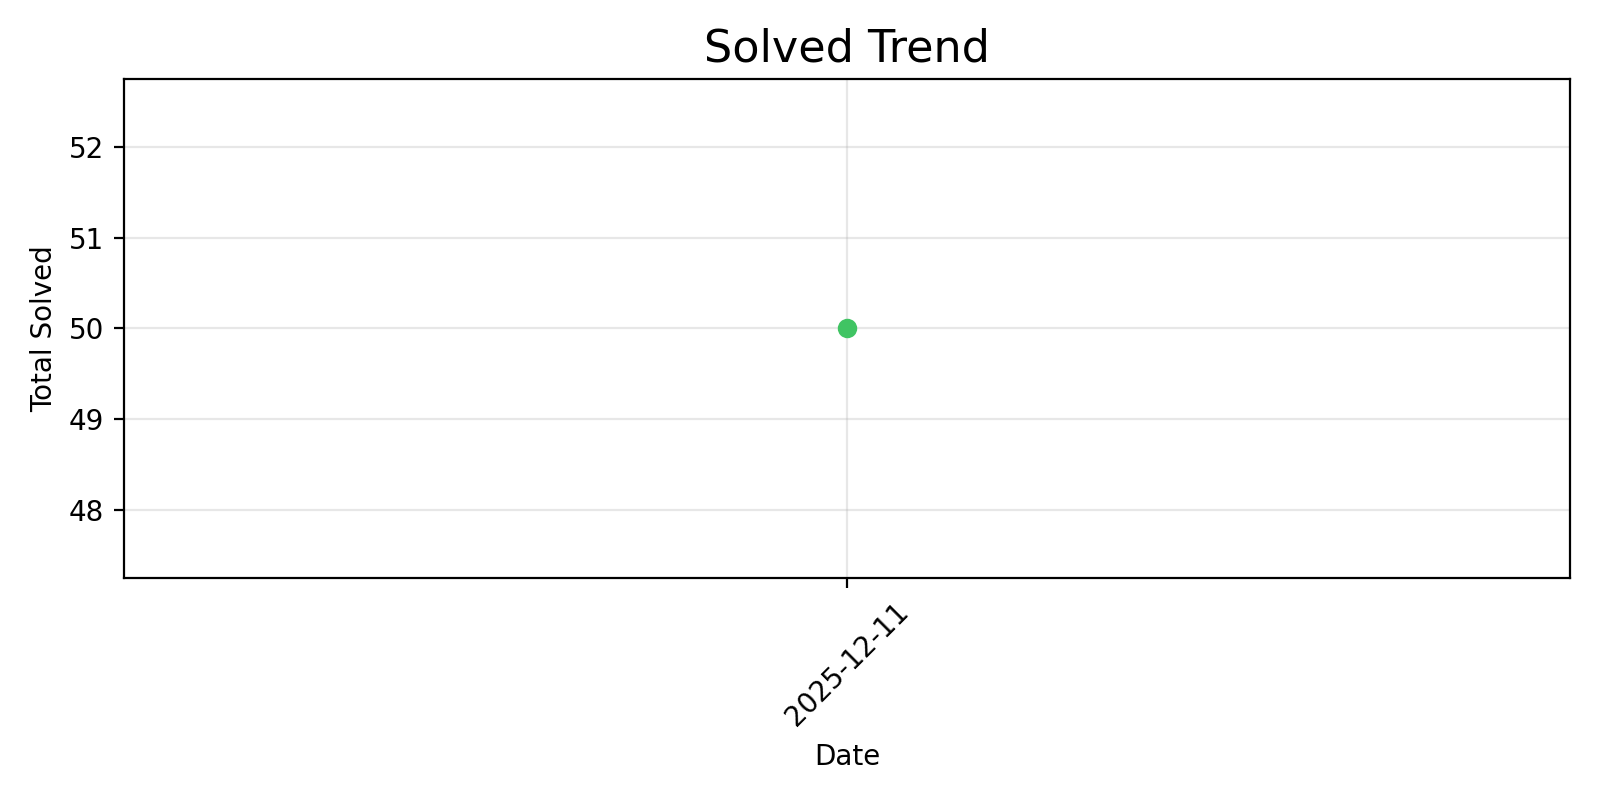
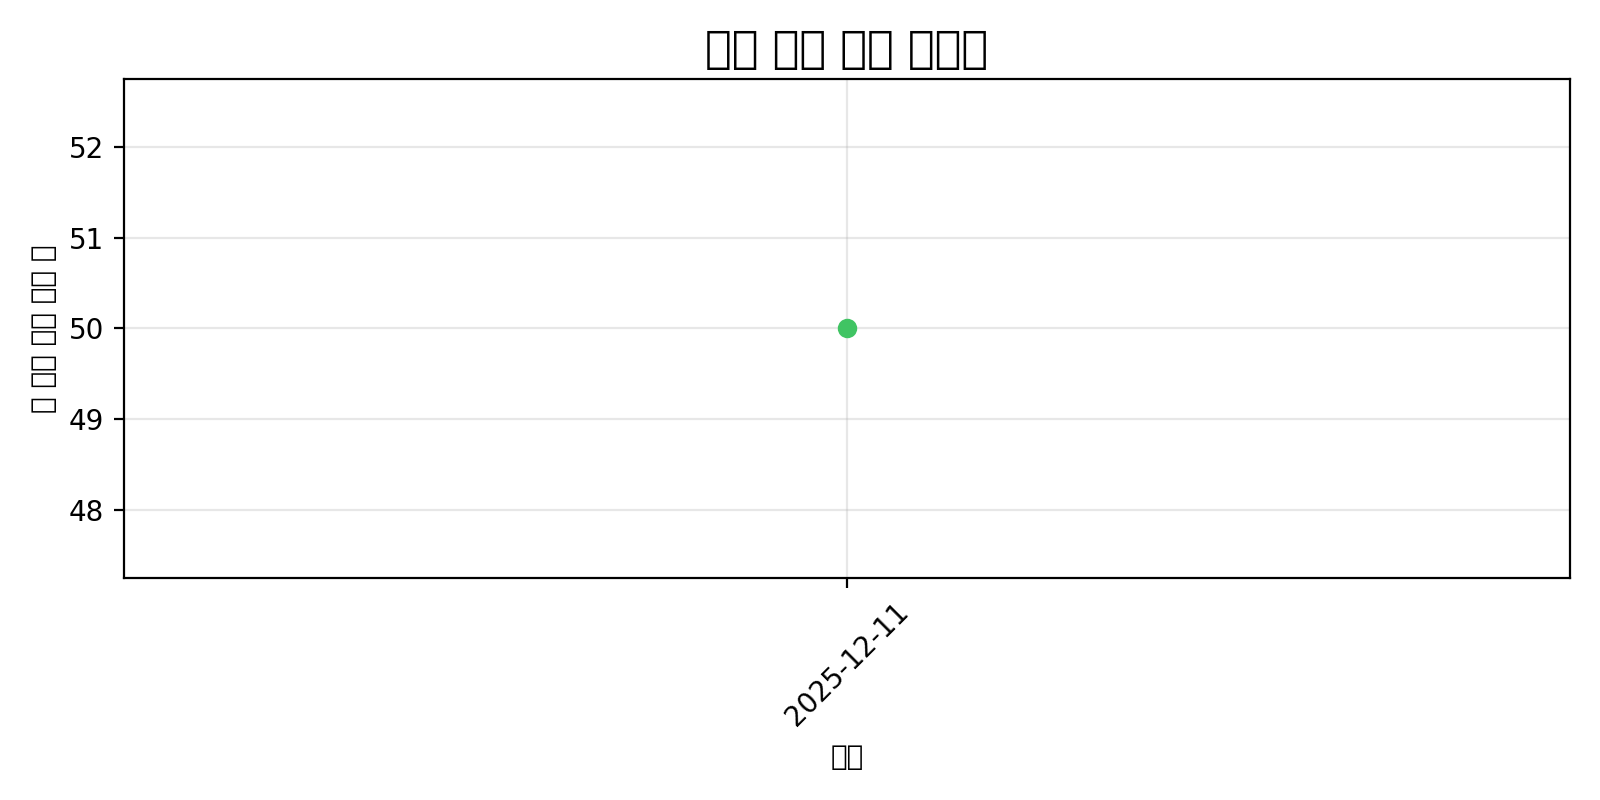
Auto update README

Changed region(s): [[0.4375, 0.0312, 0.625, 0.0938], [0.0, 0.3125, 0.0312, 0.5312], [0.5, 0.9375, 0.5625, 0.9688]]

diff --git a/README.md b/README.md
@@ -4,17 +4,17 @@
 ---
 
 ## 🔥 오늘의 활동
-**오늘 푼 문제 수: {{TODAY_SOLVED}} 문제**
+**오늘 푼 문제 수: 0 문제**
 
 ---
 
 ## 🎯 주간 목표 (10문제)
-<img src="https://progress-bar.dev/{{WEEKLY_PROGRESS}}/?scale=10&width=300&color=blue&suffix=/10" />
+<img src="https://progress-bar.dev/0/?scale=10&width=300&color=blue&suffix=/10" />
 
 ---
 
 ## 📊 누적 해결 문제 수
-<img src="https://progress-bar.dev/{{TOTAL_SOLVED}}/?scale=500&width=300&color=40c463&title=Total" />
+<img src="https://progress-bar.dev/50/?scale=500&width=300&color=40c463&title=Total" />
 
 ---
 
@@ -29,9 +29,9 @@
 
 | 분류 | 해결 문제 수 |
 |------|--------------|
-| 📘 이코테(Java) | **{{IKOTE_COUNT}}** |
-| 🚀 프로그래머스 | **{{PROGRAMMERS_COUNT}}** |
-| 🟢 BOJ | **{{BOJ_COUNT}}** |
+| 📘 이코테(Java) | **14** |
+| 🚀 프로그래머스 | **36** |
+| 🟢 BOJ | **0** |
 
 ---
 
@@ -39,10 +39,10 @@
 
 | 날짜 | 카테고리 | 문제 |
 |------|----------|------|
-{{RECENT_ACTIVITY_TABLE}}
+
 
 ---
 
 <br>
 
-⏰ **최근 업데이트:** {{LAST_UPDATE}}
+⏰ **최근 업데이트:** 2025-12-11 13:46
